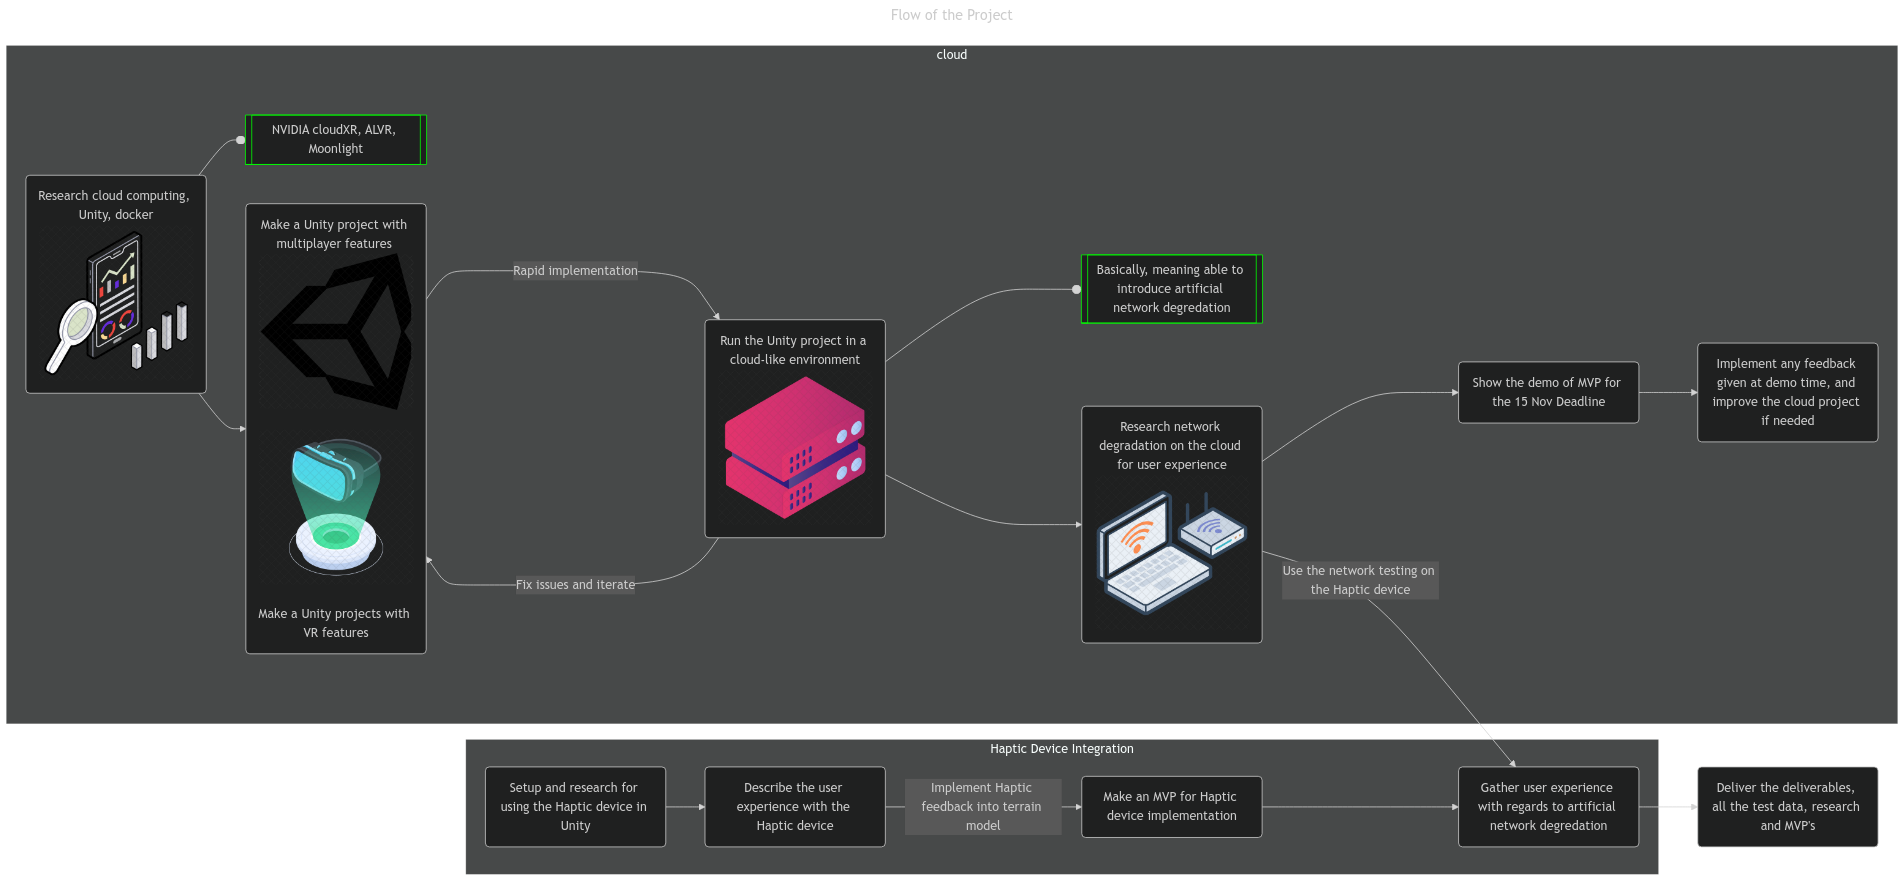
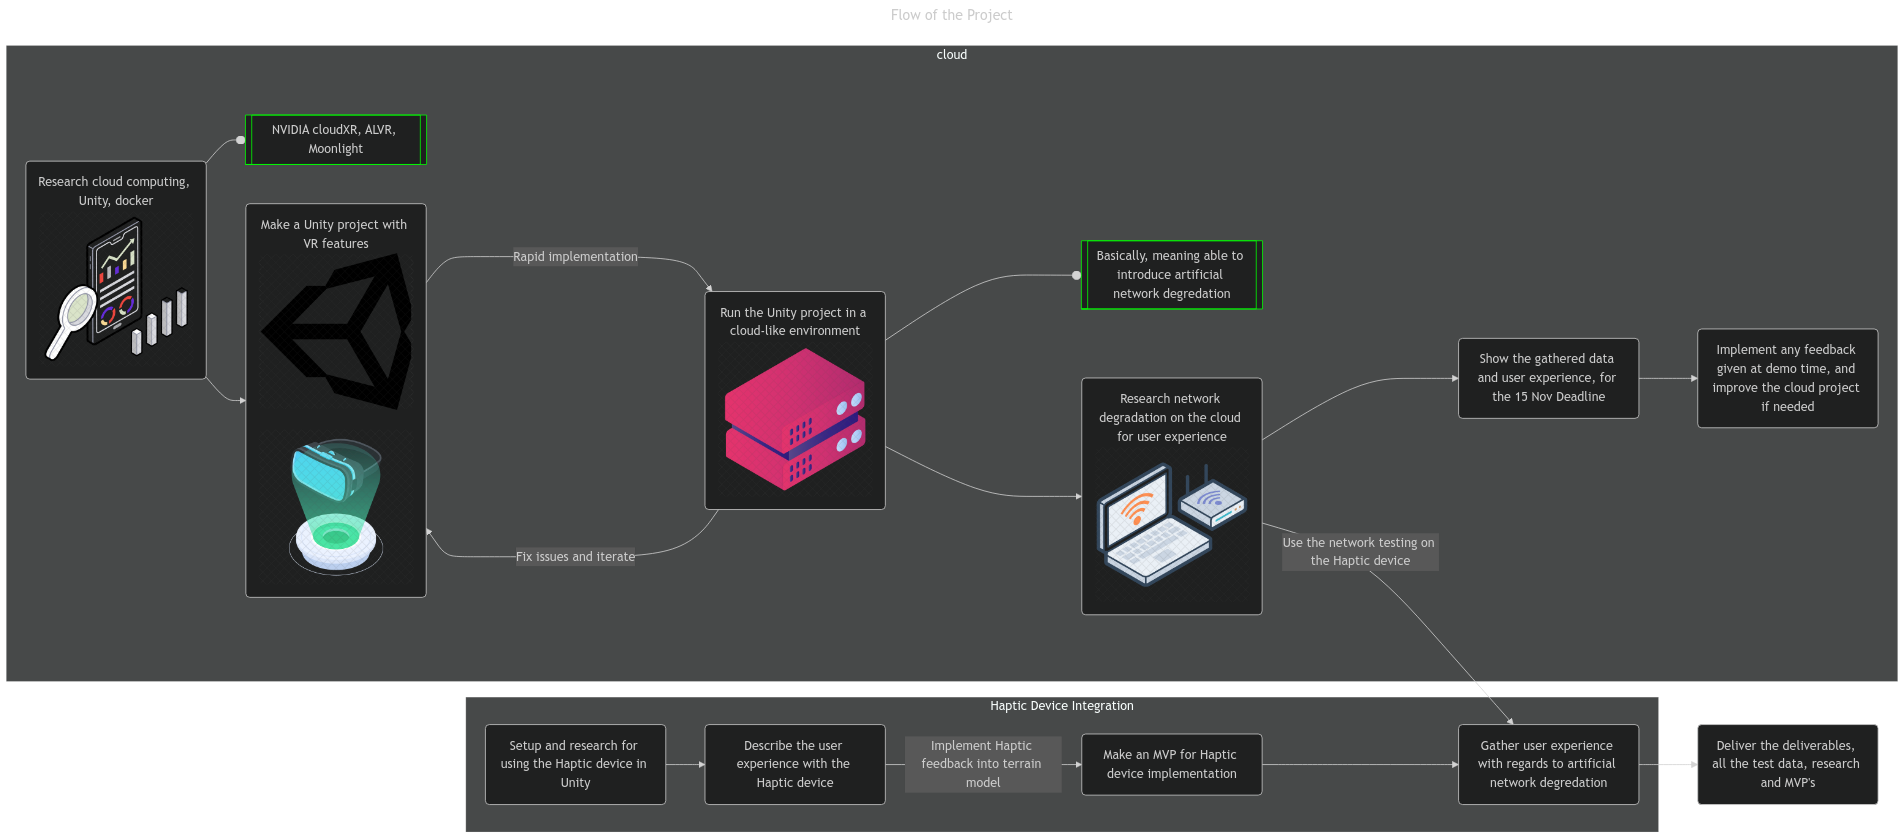
Upated the product-backlog for the cloud part, and updated the flowchart with these updates

diff --git a/product-backlog.md b/product-backlog.md
@@ -7,18 +7,20 @@
 
 ## Research-Oriented Product Backlog: Cloud VR Project
 
-| **Requirement**                        | **Description**                                                                             | **Tasks**                                                                                                      | **MoSCoW** |
-| -------------------------------------- | ------------------------------------------------------------------------------------------- | -------------------------------------------------------------------------------------------------------------- | ---------- |
-| **Local Server Setup**                 | Configure your laptop to function as a local server for remote rendering                    | - Install necessary software for server (e.g., Unity, networking tools) <br> - Set up local server environment | Must       |
-| **VR Application Development**         | Create or modify a VR application to support remote rendering and multiplayer features      | - Develop Unity project with multiplayer capabilities <br> - Implement network synchronization for users       | Must       |
-| **Remote Rendering Implementation**    | Ensure that rendering is handled on the server while users connect remotely                 | - Set up server-side rendering using Unity <br> - Test remote streaming to VR headsets                         | Must       |
-| **Network Degradation Simulation**     | Implement a tool to simulate various network conditions on the local server                 | - Create scripts to simulate latency, packet loss, and bandwidth changes <br> - Test tool effectiveness        | Must       |
-| **Performance Data Logging**           | Collect and log performance metrics during VR sessions (latency, frame rate, user feedback) | - Implement some kind of data logging <br> - Store logs locally for analysis                                   | Must       |
-| **Data Analysis**                      | Analyze collected data to understand the effects of network degradation on user experience  | - Process and visualize performance data <br> - Summarize findings related to user feedback                    | Must       |
-| **MVP Creation for Stakeholders**      | Build a minimal viable product (MVP) showcasing remote rendering and network functionality  | - Implement core features needed for MVP <br> - Ensure stability and performance for demonstration             | Must       |
-| **Iterate Based on Feedback**          | Implement improvements based on user feedback from demo and testing sessions                | - Refine VR app and network simulation features <br> - Re-test with improved functionalities                   | Could      |
-| **Multiplayer Feature Implementation** | Implement a multiplayer feature, such that it can be tested for synchronisation issues      | - Develop and integrate multiplayer features in the VR application <br> - Validate synchronization of actions  | Should     |
-| **Test with Diverse User Groups**      | Conduct tests with various participants (family, friends, students, teachers)               | - Prepare recruitment strategies for testers <br> - Provide clear instructions for testing sessions            | Should     |
-
+| **Requirement**                                  | **Description**                                                                                             | **Tasks**                                                                                                                   | **MoSCoW**    |
+| ------------------------------------------------ | ----------------------------------------------------------------------------------------------------------- | --------------------------------------------------------------------------------------------------------------------------- | ------------- |
+| **Local Server Setup**                           | Configure a laptop to function as a local server for remote rendering                                       | - Install necessary software for server (e.g., Unity, networking tools) <br> - Set up local server environment              | Must          |
+| **VR Application Development**                   | Create or modify a VR application to support remote rendering and multiplayer features                      | - Develop Unity project with multiplayer capabilities <br> - Implement network synchronization for users                    | Must          |
+| **Use an actual VR headset for the application** | Make sure that we use an actual VR headset for the application, for now we will be focussing on the quest 3 | - Aquire a quest 3 to work with                                                                                             | must          |
+| **Remote Rendering Implementation**              | Ensure that rendering is handled on the server while users connect remotely                                 | - Set up server-side rendering using Unity <br> - Test remote streaming to VR headsets                                      | Must          |
+| **Network Degradation Simulation**               | Implement a tool to simulate various network conditions on the local server                                 | - Create scripts to simulate latency, packet loss, and bandwidth changes <br> - Test tool effectiveness                     | Must          |
+| **Performance Data Logging**                     | Collect and log performance metrics during VR sessions (latency, frame rate, user feedback)                 | - Implement some kind of data logging <br> - Store logs locally for analysis                                                | Must          |
+| **Data Analysis**                                | Analyze collected data to understand the effects of network degradation on user experience                  | - Process and visualize performance data <br> - Summarize findings related to user feedback                                 | Must          |
+| **MVP Creation for Stakeholders**                | Build a minimal viable product (MVP) showcasing remote rendering and network functionality                  | - Implement core features needed for MVP <br> - Ensure stability and performance for demonstration                          | Must (should) |
+| **Iterate Based on Feedback**                    | Implement improvements based on user feedback from demo and testing sessions                                | - Refine VR app and network simulation features <br> - Re-test with improved functionalities                                | Could         |
+| **Multiplayer Feature Implementation**           | Implement a multiplayer feature, such that it can be tested for synchronisation issues                      | - Develop and integrate multiplayer features in the VR application <br> - Validate synchronization of actions               | Should        |
+| **Test with Diverse User Groups**                | Conduct tests with various participants (family, friends, students, teachers)                               | - Prepare recruitment strategies for testers <br> - Provide clear instructions for testing sessions                         | Should        |
+| **Allow the usage for different vr headsets**    | Except for only a quest 3, make sure we can use other VR headsets aswell                                    | - Aquire different VR headsets <br> - Do research about the differences between the different VR headsets, based on the API | Could         |
+| **Usage of a dedicated server**                  | Use a dedicated server instead of rendering on a laptop                                                     | - Do research about the different options we have (AWS, ...)                                                                | Won't         |
 
 ![](./src/flowchart.png)
